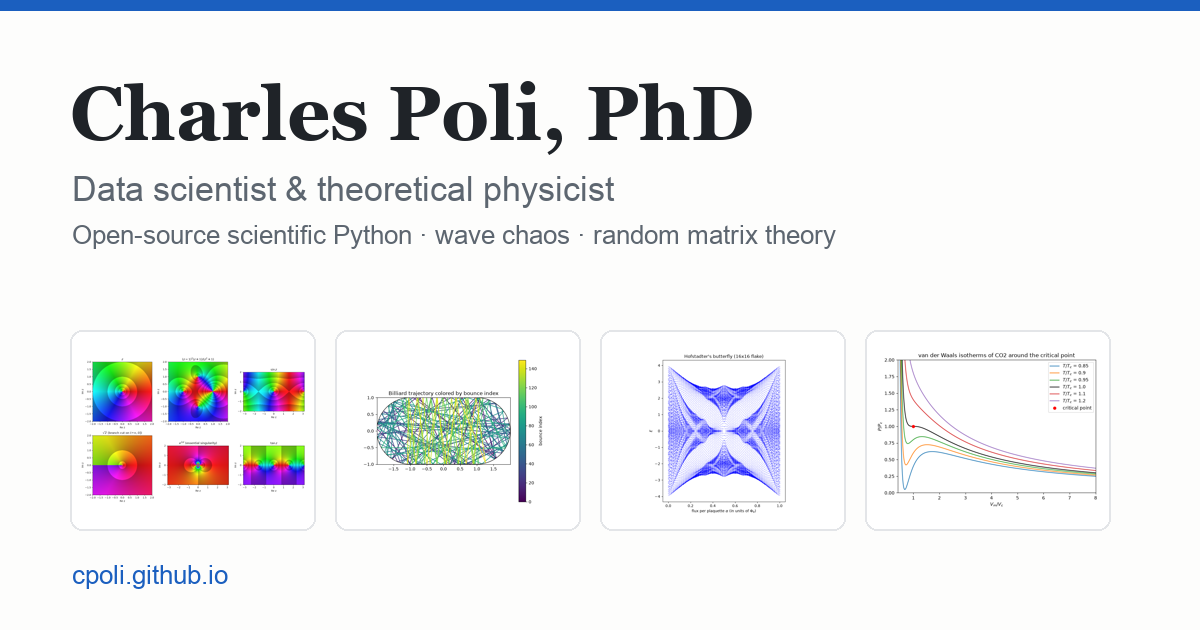
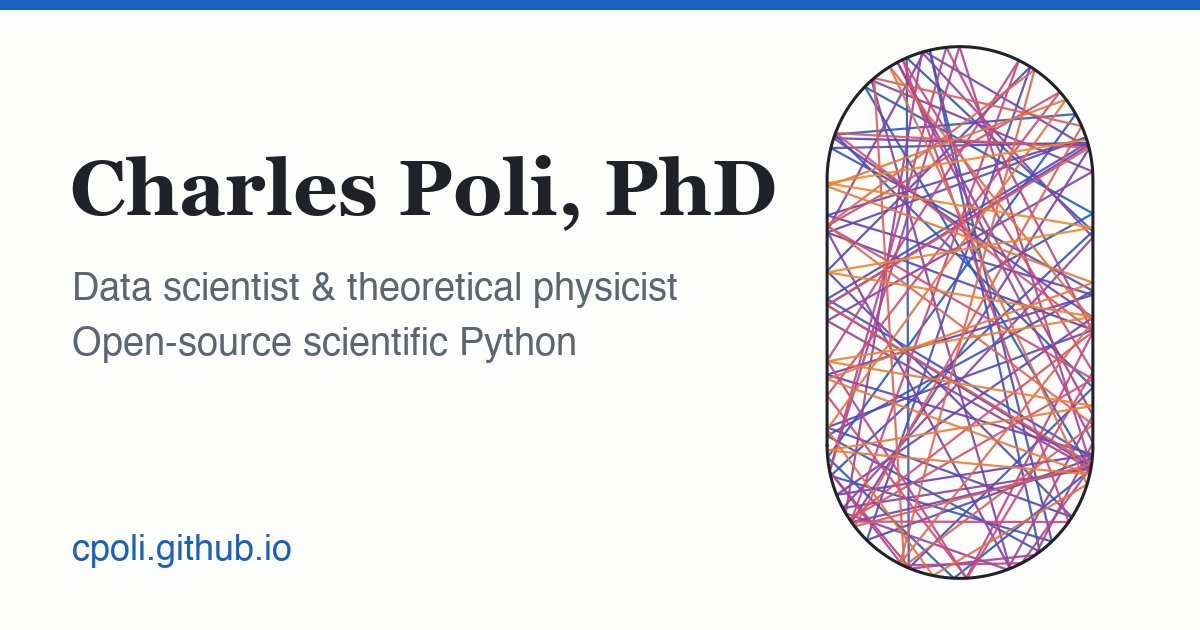
Replace share image with Bunimovich stadium billiard
Add scripts/make_og_image.py to regenerate public/og-image.png from physicskit.

Changed region(s): [[0.0617, 0.0603, 0.925, 0.9349], [0.0617, 0.4222, 0.555, 0.4825]]

diff --git a/scripts/make_og_image.py b/scripts/make_og_image.py
@@ -1,0 +1,54 @@
+"""Render public/og-image.png, the 1200x630 share image used by LinkedIn and others.
+
+Needs physicskit; run with its environment from the repo root:
+
+    ../physicskit/.venv/bin/python scripts/make_og_image.py [output.png]
+"""
+
+import sys
+from pathlib import Path
+
+import matplotlib.pyplot as plt
+import numpy as np
+from matplotlib.collections import LineCollection
+from matplotlib.colors import LinearSegmentedColormap
+
+from physicskit.chaos.systems.billiards import BunimovichStadium
+
+OUT = Path(sys.argv[1]) if len(sys.argv) > 1 else Path(__file__).resolve().parent.parent / "public" / "og-image.png"
+W, H, DPI = 1200, 630, 100
+BG, FG, MUTED, ACCENT = "#fdfdfc", "#1f2328", "#5d6670", "#1b5fbf"
+PT = 72 / DPI  # points per pixel
+
+# Stadium trajectory, rotated upright so it fills the right-hand column.
+stadium = BunimovichStadium(radius=1.0, straight_length=2.0)
+path, _ = stadium.trajectory_segments((0.3, 0.2), vel=(0.5, 0.9), n_bounces=110)
+path = path[:, ::-1]
+boundary = stadium.boundary_polyline()[:, ::-1]
+
+fig = plt.figure(figsize=(W / DPI, H / DPI), dpi=DPI, facecolor=BG)
+
+# Accent bar along the top, as on the site.
+fig.add_artist(plt.Rectangle((0, 1 - 10 / H), 1, 10 / H, transform=fig.transFigure, color=ACCENT, lw=0))
+
+# Billiard: right-hand column, no axes, frame or colorbar.
+ax = fig.add_axes((780 / W, 45 / H, 360 / W, 545 / H))
+ax.set_axis_off()
+segments = np.stack([path[:-1], path[1:]], axis=1)
+cmap = LinearSegmentedColormap.from_list("og", ["#1b5fbf", "#6a3fb5", "#d0457a", "#f08a24"])
+lines = LineCollection(segments, cmap=cmap, linewidths=1.6, alpha=0.9, capstyle="round")
+lines.set_array(np.arange(len(segments)))
+ax.add_collection(lines)
+ax.plot(boundary[:, 0], boundary[:, 1], color=FG, lw=2.2, solid_capstyle="round")
+ax.set_xlim(-1.08, 1.08)
+ax.set_ylim(-2.05, 2.05)
+ax.set_aspect("equal")
+
+# Text: left-hand column, sized to stay legible as a small LinkedIn card.
+fig.text(70 / W, 1 - 215 / H, "Charles Poli, PhD", fontsize=78 * PT, fontfamily="Georgia", fontweight="bold", color=FG)
+fig.text(72 / W, 1 - 300 / H, "Data scientist & theoretical physicist", fontsize=38 * PT, fontfamily="Helvetica", color=MUTED)
+fig.text(72 / W, 1 - 355 / H, "Open-source scientific Python", fontsize=38 * PT, fontfamily="Helvetica", color=MUTED)
+fig.text(72 / W, 1 - 560 / H, "cpoli.github.io", fontsize=36 * PT, fontfamily="Helvetica", color=ACCENT)
+
+fig.savefig(OUT, dpi=DPI, facecolor=BG)
+print(f"wrote {OUT}")
